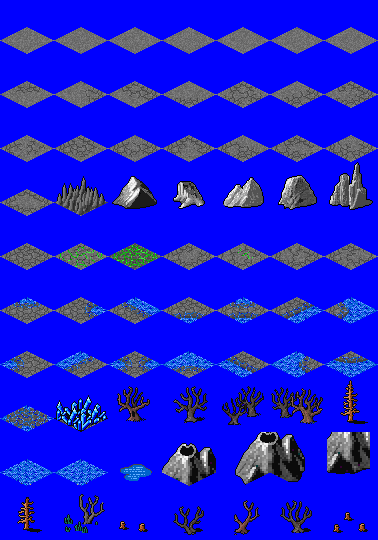
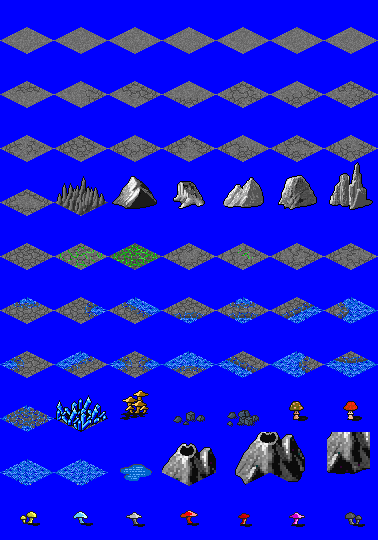
Added mushrooms to underground tileset

diff --git a/narrator/citybits.py b/narrator/citybits.py
@@ -50,10 +50,10 @@ class CityOnEdgeOfCiv( Plot ):
         self.chapter.world.add_entrance( myscene, myscene.name, worlds.W_CITY, myent, True )
 
         self.add_sub_plot( nart, "CITY_GENERALSTORE" )
-        self.add_sub_plot( nart, "CITY_WEAPONSHOP" )
         self.add_sub_plot( nart, "CITY_LIBRARY" )
         self.add_sub_plot( nart, "CITY_INN" )
         self.add_sub_plot( nart, "CITY_TEMPLE" )
+        self.add_sub_plot( nart, "CITY_EXTRASHOP" )
         for t in range( random.randint(1,4) ):
             self.add_sub_plot( nart, "ENCOUNTER" )
 
@@ -105,7 +105,7 @@ class GenerallyGeneralStore( Plot ):
         gate_1.mini_map_label = "General Store"
         int_mainroom.contents.append( npc )
         self.register_element( "SHOPKEEPER", npc )
-        self.shop = self.register_element( "SHOPSERVICE", services.Shop( rank=self.rank+2 ) )
+        self.shop = self.register_element( "SHOPSERVICE", services.Shop( rank=self.rank+3 ) )
         self.add_sub_plot( nart, "SIDE_STORY", PlotState(rank=self.random_rank_in_chapter()).based_on( self ) )
         return True
 
@@ -149,6 +149,7 @@ class GenericInn( Plot ):
          tags=(context.CIVILIZED,context.ROOM_PUBLIC), anchor=mapgen.south, parent=interior )
         int_mainroom.contents.append( gate_2 )
         int_mainroom.contents.append( waypoints.Bookshelf() )
+        int_mainroom.contents.append( maps.FIREPLACE )
         gate_2.anchor = mapgen.south
         int_mainroom.decorate = mapgen.TavernDec(win=maps.SMALL_WINDOW)
 
@@ -288,6 +289,82 @@ class GenericTemple( Plot ):
         ol = list()
         ol.append( dialogue.Offer( "[SERVICE_TEMPLE]" ,
          context = context.ContextTag([context.SERVICE,context.HEALING]), effect=self.shop ) )
+        return ol
+
+#  **************************
+#  ***   CITY_EXTRASHOP   ***
+#  **************************
+#
+# After the general shop, library, temple, and inn are taken care of, extra shops
+# can be added.
+
+class ExtraWeaponShop( Plot ):
+    # Just add a weapon shop...
+    LABEL = "CITY_EXTRASHOP"
+    def custom_init( self, nart ):
+        self.add_sub_plot( nart, "CITY_WEAPONSHOP" )
+        return True
+
+class ExtraArmorShop( Plot ):
+    # Just add an armor shop...
+    LABEL = "CITY_EXTRASHOP"
+    def custom_init( self, nart ):
+        self.add_sub_plot( nart, "CITY_ARMORSHOP" )
+        return True
+
+
+#  ***************************
+#  ***   CITY_ARMORSHOP   ***
+#  ***************************
+
+class GenericArmorShop( Plot ):
+    LABEL = "CITY_ARMORSHOP"
+    active = True
+    scope = "BUILDING_INT"
+    NAME_PATTERNS = ( "{0}'s Armor", "{0}'s Clothes" )
+    def custom_init( self, nart ):
+        exterior = mapgen.BuildingRoom( tags=(context.CIVILIZED,) )
+        exterior.special_c[ "window" ] = maps.SMALL_WINDOW
+        exterior.special_c[ "sign1" ] = maps.SHIELD_SIGN
+        exterior.special_c[ "sign2" ] = maps.HELMET_SIGN
+        self.register_element( "_EXTERIOR", exterior, dident="CITY" )
+
+        interior = maps.Scene( 50,50, sprites={maps.SPRITE_FLOOR: "terrain_floor_wood.png" },
+            biome=context.HAB_BUILDING, setting=self.setting, desctags=(context.DES_CIVILIZED,) )
+        igen = mapgen.BuildingScene( interior )
+
+        gate_1 = waypoints.GateDoor()
+        gate_2 = waypoints.GateDoor()
+        gate_1.destination = interior
+        gate_1.otherside = gate_2
+        gate_2.destination = self.elements.get( "LOCALE" )
+        gate_2.otherside = gate_1
+
+        self.register_scene( nart, interior, igen, ident="BUILDING_INT", dident="LOCALE" )
+
+        exterior.special_c[ "door" ] = gate_1
+        int_mainroom = mapgen.SharpRoom( tags=(context.CIVILIZED,context.ROOM_PUBLIC), anchor=mapgen.south, parent=interior )
+        int_mainroom.contents.append( gate_2 )
+        gate_2.anchor = mapgen.south
+        int_mainroom.decorate = mapgen.ArmorShopDec()
+
+        npc = monsters.generate_npc( job=monsters.base.Merchant )
+        npc.tags.append( context.CHAR_SHOPKEEPER )
+        interior.name = random.choice( self.NAME_PATTERNS ).format( npc )
+        gate_1.mini_map_label = "Armor Shop"
+        int_mainroom.contents.append( npc )
+        self.register_element( "SHOPKEEPER", npc )
+
+        self.shop = self.register_element( "SHOPSERVICE", services.Shop( ware_types=services.ARMOR_STORE, rank=self.rank+3,
+         allow_misc=False, allow_magic=True, num_items=14 ) )
+
+        return True
+
+    def SHOPKEEPER_offers( self, explo ):
+        # Return list of shopkeeper offers.
+        ol = list()
+        ol.append( dialogue.Offer( "[SHOP_ARMOR]" ,
+         context = context.ContextTag([context.SHOP,context.ARMOR]), effect=self.shop ) )
         return ol
 
 

diff --git a/items/enhancers.py b/items/enhancers.py
@@ -314,28 +314,28 @@ class FireArmor( Enhancer ):
     DESCPAT = "{0} It provides 25% protection against fire."
     PLUSRANK = 4
     AFFECTS = (CLOTHES, LIGHT_ARMOR, HEAVY_ARMOR, SHIELD)
-    BONUSES = stats.StatMod({ stats.RESIST_FIRE:25 })
+    BONUSES = stats.StatMod({ stats.RESIST_FIRE:25, stats.PHYSICAL_DEFENSE: 5, stats.NATURAL_DEFENSE: 5 })
 
 class ColdArmor( Enhancer ):
     NAMEPAT = "Cold {0}"
     DESCPAT = "{0} It provides 25% protection against cold."
     PLUSRANK = 4
     AFFECTS = (CLOTHES, LIGHT_ARMOR, HEAVY_ARMOR, SHIELD)
-    BONUSES = stats.StatMod({ stats.RESIST_COLD:25 })
+    BONUSES = stats.StatMod({ stats.RESIST_COLD:25, stats.PHYSICAL_DEFENSE: 5, stats.NATURAL_DEFENSE: 5 })
 
 class AcidArmor( Enhancer ):
     NAMEPAT = "Acid {0}"
     DESCPAT = "{0} It provides 25% protection against acid."
     PLUSRANK = 4
     AFFECTS = (CLOTHES, LIGHT_ARMOR, HEAVY_ARMOR, SHIELD)
-    BONUSES = stats.StatMod({ stats.RESIST_ACID:25 })
+    BONUSES = stats.StatMod({ stats.RESIST_ACID:25, stats.PHYSICAL_DEFENSE: 5, stats.NATURAL_DEFENSE: 5 })
 
 class LightningArmor( Enhancer ):
     NAMEPAT = "Lightning {0}"
     DESCPAT = "{0} It provides 25% protection against lightning."
     PLUSRANK = 4
     AFFECTS = (CLOTHES, LIGHT_ARMOR, HEAVY_ARMOR, SHIELD)
-    BONUSES = stats.StatMod({ stats.RESIST_LIGHTNING:25 })
+    BONUSES = stats.StatMod({ stats.RESIST_LIGHTNING:25, stats.PHYSICAL_DEFENSE: 5, stats.NATURAL_DEFENSE: 5 })
 
 class SturdyArmor( Enhancer ):
     NAMEPAT = "Sturdy {0}"
@@ -349,14 +349,14 @@ class WardedArmor( Enhancer ):
     DESCPAT = "{0} It is covered in protective sigils which give +10% to aura."
     PLUSRANK = 5
     AFFECTS = (CLOTHES, LIGHT_ARMOR, HEAVY_ARMOR)
-    BONUSES = stats.StatMod({ stats.MAGIC_DEFENSE: 10 })
+    BONUSES = stats.StatMod({ stats.MAGIC_DEFENSE: 10, stats.PHYSICAL_DEFENSE: 5, stats.NATURAL_DEFENSE: 5 })
 
 class ShadowArmor( Enhancer ):
     NAMEPAT = "Shadow {0}"
     DESCPAT = "{0} It has been enchanted to give +20% to stealth."
     PLUSRANK = 6
     AFFECTS = (CLOTHES, LIGHT_ARMOR)
-    BONUSES = stats.StatMod({ stats.STEALTH: 20 })
+    BONUSES = stats.StatMod({ stats.STEALTH: 20, stats.PHYSICAL_DEFENSE: 5, stats.NATURAL_DEFENSE: 5 })
 
 class HeroicArmor( Enhancer ):
     NAMEPAT = "Heroic {0}"

diff --git a/dialogue/grammar.py b/dialogue/grammar.py
@@ -41,6 +41,8 @@ GRAM_DATABASE = {
         ],
     "[adjective]": ["[positive_adjective]","[negative_adjective]","[neutral_adjective]"
         ],
+    "[armor]": ["outfit","suit of armor","shield","helm","hat"
+        ],
     "[BESTWISHES]": ["May fortune smile on you."
         ],
     "[GOODLUCK]": ["Good luck with that.","Good luck.",
@@ -83,6 +85,9 @@ GRAM_DATABASE = {
         "[HELLO] Do you need to buy anything?", "Welcome to [scene]. [RUMOUR]",
         "Welcome to [scene]. [HOWAREYOU]",
         ],
+    "[HELLO_SHOP_ARMOR]": [ "[HELLO_SHOP]",
+        "[HELLO] You look like you could use a new [armor].",
+        ],
     "[HELLO_SHOP_BLACKMARKET]": [ "[HELLO_SHOP]",
         "Looking for something out of the ordinary? I have it all right here, and I promise you will not find it anywhere else.",
         ],
@@ -98,6 +103,10 @@ GRAM_DATABASE = {
         ],
     "[HELLO:SHOP]": [ "I would like to see your wares.",
         "Shall we barter?"
+        ],
+    "[HELLO:SHOP_ARMOR]": [ "[HELLO:SHOP]",
+        "We need some armor.",
+        "What do you have in my size?",
         ],
     "[HELLO:SHOP_BLACKMARKET]": [ "[HELLO:SHOP]",
         "I will take a look at your wares.",
@@ -159,6 +168,8 @@ GRAM_DATABASE = {
         ],
     "[SHOP]": [ "", "Take a look around. Let me know if you need any help."
         ],
+    "[SHOP_ARMOR]": [ "[SHOP]","[rumourleadin] it is better to be safe than sorry.",
+        ],
     "[SHOP_GENERAL]": [ "[SHOP]","Remember, you get what you pay for."
         ],
     "[SHOP_MAGIC]": [ "[SHOP]","Knowledge is power. Some knowledge is more powerful than others.",
@@ -166,7 +177,7 @@ GRAM_DATABASE = {
         ],
     "[SHOP_WEAPON]": [ "[SHOP]","You will be happy to own a good [weapon] the next time you see a [monster].",
         ],
-    "[thing]": [ "[weapon]","[monster]","[adjective] [monster]"
+    "[thing]": [ "[weapon]","[monster]","[adjective] [monster]", "[armor]"
         ],
     "[TRAINING]": [ "", "Let me show you how it is done."
         ],

diff --git a/maps.py b/maps.py
@@ -281,7 +281,7 @@ MOON_PICTURE = OnTheWallTerrain( "MOON_PICTURE", frame = 9 )
 LANDSCAPE_PICTURE = OnTheWallTerrain( "LANDSCAPE_PICTURE", frame = 11 )
 BOOKSHELF = OnTheWallTerrain( "BOOKSHELF", frame = 13, block_walk=True )
 MESSAGE_SIGN = OnTheWallTerrain( "MESSAGE_SIGN", frame = 15 )
-FIREPLACE = OnTheWallTerrain( "HANGING_SKELETON", frame = 17 )
+FIREPLACE = OnTheWallTerrain( "FIREPLACE", frame = 17 )
 SWITCH_UP = OnTheWallTerrain( "SWITCH_UP", frame = 19 )
 SWITCH_DOWN = OnTheWallTerrain( "SWITCH_DOWN", frame = 21 )
 KEG = SingTerrain( "KEG", spritesheet = SPRITE_DECOR, frame = 23, block_walk = True )
@@ -335,6 +335,9 @@ WEAPONS_SIGN = OnTheWallTerrain( "WEAPONS_SIGN", spritesheet=SPRITE_SIGNS, frame
 POTION_SIGN = OnTheWallTerrain( "POTION_SIGN", spritesheet=SPRITE_SIGNS, frame = 12 )
 BOW_SIGN = OnTheWallTerrain( "BOW_SIGN", spritesheet=SPRITE_SIGNS, frame = 14 )
 TOWER_SIGN = OnTheWallTerrain( "TOWER_SIGN", spritesheet=SPRITE_SIGNS, frame = 16 )
+HELMET_SIGN = OnTheWallTerrain( "HELMET_SIGN", spritesheet=SPRITE_SIGNS, frame = 18 )
+RING_SIGN = OnTheWallTerrain( "RING_SIGN", spritesheet=SPRITE_SIGNS, frame = 20 )
+BED_SIGN = OnTheWallTerrain( "BED_SIGN", spritesheet=SPRITE_SIGNS, frame = 22 )
 
 
 SMALL_CHEST = VariableTerrain( "SMALL_CHEST", spritesheet = SPRITE_CHEST, frames = (0,1), block_walk=True )

diff --git a/context.py b/context.py
@@ -6,7 +6,7 @@
 #  Offers and replies are described with ContextTag objects, which contain an
 #  ordered list of context values.
 #
-#  HELLO.* -> SHOP( GENERALSTORE, BLACKMARKET, WEAPON, MAGICGOODS )
+#  HELLO.* -> SHOP( GENERALSTORE, BLACKMARKET, WEAPON, MAGICGOODS, ARMOR )
 #  HELLO.* -> SERVICE( INN, HEALING )
 #  HELLO.* -> INFO( HINT, PERSONAL )
 #  HELLO.* -> PROBLEM( PERSONAL, LOCAL )
@@ -21,7 +21,7 @@
 HELLO,THREATEN,SHOP,SERVICE,INFO,PROBLEM,BRINGMESSAGE, REWARD, \
     GENERALSTORE,BLACKMARKET,WEAPON,HINT,INN,MAGICGOODS, \
     HEALING,PERSONAL,GOODNEWS,BADNEWS,QUESTION,REPLY_ATTACK, \
-    REPLY_PEACE,GOODLUCK,LOCAL,TRAINING = range(24)
+    REPLY_PEACE,GOODLUCK,LOCAL,TRAINING,ARMOR = range(25)
 
 
 class ContextTag( tuple ):

diff --git a/dialogue/offers.py b/dialogue/offers.py
@@ -39,6 +39,12 @@ HELLO_SHOPKEEPER = Offer( msg = "[HELLO_SHOP]" ,
         context = ContextTag( [context.HELLO,context.SHOP] ) ,
         replies = [ Reply( "[HELLO:SHOP]" , destination = Cue( ContextTag( [context.SHOP] ) ) ) ] )
 
+HELLO_ARMOR_SHOPKEEPER = Offer( msg = "[HELLO_SHOP_ARMOR]" ,
+        context = ContextTag( [context.HELLO,context.SHOP,context.ARMOR] ) ,
+        replies = [ Reply( "[HELLO:SHOP_ARMOR]" ,
+                    destination = Cue( ContextTag( [context.SHOP,context.ARMOR] ) ) ) ]
+        )
+
 HELLO_WEAPON_SHOPKEEPER = Offer( msg = "[HELLO_SHOP_WEAPON]" ,
         context = ContextTag( [context.HELLO,context.SHOP,context.WEAPON] ) ,
         replies = [ Reply( "[HELLO:SHOP_WEAPON]" ,

diff --git a/mapgen.py b/mapgen.py
@@ -226,6 +226,11 @@ class WeaponShopDec( BuildingDec ):
     """Add windows + signs of inhabitation to a (sharp) room."""
     WALL_DECOR = ( maps.WALL_WEAPON_RACK, maps.WALL_WEAPON_RACK, maps.WALL_CRATES )
 
+class ArmorShopDec( BuildingDec ):
+    """Add windows + signs of inhabitation to a (sharp) room."""
+    WALL_DECOR = ( maps.BENCH, maps.DRESSER, maps.DRESSER, maps.WALL_CRATES )
+
+
 class GeneralStoreDec( BuildingDec ):
     """Add windows + signs of inhabitation to a (sharp) room."""
     WALL_DECOR = ( maps.PROVISIONS, maps.PROVISIONS, maps.WALL_CRATES, maps.WALL_WEAPON_RACK,

diff --git a/services.py b/services.py
@@ -13,6 +13,10 @@ GENERAL_STORE = ( items.SWORD, items.AXE, items.MACE, items.DAGGER, items.STAFF,
     items.GLOVE, items.GAUNTLET, items.SANDALS, items.SHOES, items.BOOTS,
     items.CLOAK, items.FARMTOOL )
 
+ARMOR_STORE = ( items.SHIELD, items.CLOTHES, items.LIGHT_ARMOR, items.HEAVY_ARMOR,
+    items.HAT, items.HELM, items.GLOVE, items.GAUNTLET, items.SANDALS, items.SHOES,
+    items.BOOTS, items.CLOAK )
+
 WEAPON_STORE = ( items.SWORD, items.AXE, items.MACE, items.DAGGER, items.STAFF,
     items.BOW, items.POLEARM, items.ARROW, items.SLING, items.BULLET,
     items.FARMTOOL )

diff --git a/dialogue/replies.py b/dialogue/replies.py
@@ -14,6 +14,9 @@ HELLOHINT_TO_SHOP = Reply( "I just need to buy something." ,
             destination = Cue( ContextTag([context.SHOP]) ) ,
             context = ContextTag([context.HELLO,context.INFO]) )
 
+HELLO_TO_ARMOR_SHOP = Reply( "[HELLO:SHOP_ARMOR]",
+            destination = Cue( ContextTag([context.SHOP,context.ARMOR])),
+            context = ContextTag([context.HELLO]) )
 
 HELLO_TO_WEAPON_SHOP = Reply( "[HELLO:SHOP_WEAPON]",
             destination = Cue( ContextTag([context.SHOP,context.WEAPON])),
